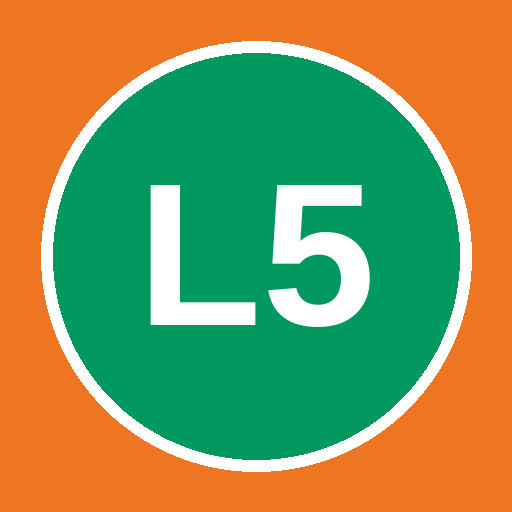
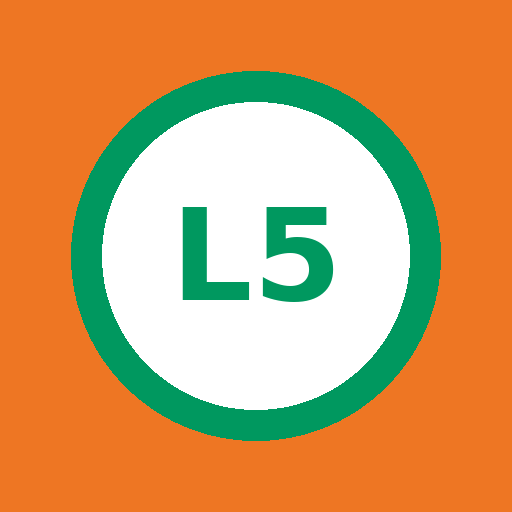
Add files via upload

diff --git a/index.html b/index.html
@@ -5,6 +5,11 @@
 <meta name="viewport" content="width=device-width, initial-scale=1, viewport-fit=cover">
 <meta name="theme-color" content="#00985F">
 <title>Fiscalización Limpieza Línea 5</title>
+<link rel="manifest" href="manifest.json">
+<link rel="icon" href="icon-192.png">
+<link rel="apple-touch-icon" href="icon-192.png">
+<meta name="mobile-web-app-capable" content="yes">
+<meta name="apple-mobile-web-app-capable" content="yes">
 <link rel="preconnect" href="https://fonts.googleapis.com">
 <link href="https://fonts.googleapis.com/css2?family=Atkinson+Hyperlegible:wght@400;700&display=swap" rel="stylesheet">
 <style>
@@ -86,6 +91,7 @@ nav .go{background:var(--verde);border-color:var(--verde);color:#fff}
 
 <script>
 /* ===================== CONFIGURACIÓN ===================== */
+const VERSION = "v3";
 const SCRIPT_URL = "https://script.google.com/macros/s/AKfycbyA7EcixS1LLWbKX3P76Mp1x_LBbPOSd1o47Lm6pk6017AtY7r_Sb_H1eqq3NLe558R/exec";   // URL /exec de la App web de Apps Script
 
 const SUPERVISORES = ["Darling Oliva Beltrán","Evelyn Torres Ortiz","Gabriela Escudero Lazcano","Gloria Beltrán Carter",
@@ -182,7 +188,7 @@ function bindItems(){
 
 function render(keepScroll){
   $("#prog").innerHTML=STEPS.map((_,i)=>`<i class="${i<cur?"done":i===cur?"now":""}"></i>`).join("");
-  $("#paso").textContent=`Paso ${cur+1} de ${STEPS.length}`;
+  $("#paso").textContent=`Paso ${cur+1} de ${STEPS.length} · ${VERSION}`;
   $("#back").style.visibility=cur?"visible":"hidden";
   const id=STEPS[cur];$("#next").textContent=id==="cierre"?"Enviar fiscalización":"Siguiente";
   const v=$("#view"),y=window.scrollY;let h="";
@@ -331,7 +337,7 @@ function pintarCola(){const n=cola().length,el=$("#pend");el.style.display=n?"bl
   el.innerHTML=n?`${n} fiscalización(es) guardada(s) sin enviar. <button id="reenv" style="padding:6px 10px;margin-left:6px">Enviar ahora</button>`:"";
   if(n)$("#reenv").onclick=reintentar;}
 function post(d){return new Promise((res,rej)=>{
-  if(!SCRIPT_URL||!navigator.onLine)return rej();
+  if(!SCRIPT_URL)return rej("url");if(!navigator.onLine)return rej("red");
   const f=document.createElement("form");f.method="POST";f.action=SCRIPT_URL;f.target="envio";f.style.display="none";
   const i=document.createElement("input");i.type="hidden";i.name="payload";i.value=JSON.stringify(d);f.appendChild(i);
   document.body.appendChild(f);f.submit();setTimeout(()=>{f.remove();res();},2500);});}
@@ -349,10 +355,10 @@ function armar(){const p=puntaje();
     obsGeneral:S.obsGeneral,firma:S.firma||"",fotos:S.fotos};}
 
 async function enviar(){const d=armar();$("#next").disabled=true;$("#next").textContent="Enviando…";
-  let ok=true;try{await post(d);}catch{ok=false;setCola([...cola(),d]);}
+  let ok=true,mot="red";try{await post(d);}catch(er){ok=false;mot=er;setCola([...cola(),d]);}
   document.querySelector("nav").style.display="none";
   $("#view").innerHTML=`<h2>${ok?"Fiscalización enviada":"Guardada en el equipo"}</h2>
-    <p class="sub">${ok?"Registro "+d.id+" enviado.":"Sin conexión o sin URL configurada. Usa “Enviar ahora” cuando tengas señal."}</p>
+    <p class="sub">${ok?"Registro "+esc(d.id)+" enviado.":mot==="url"?"Falta configurar la URL de envío en la app. Avisa al administrador.":"El teléfono está sin internet. Usa “Enviar ahora” cuando tengas señal."}</p>
     <div class="score">${d.total}%</div><p class="sub">${esc(d.estacion)} · ${esc(d.auxNombre)}</p>
     <button id="nueva" class="btn-verde" style="margin-top:16px">Nueva fiscalización</button>`;
   $("#nueva").onclick=()=>{sessionStorage.setItem("fl5_sup",S.supervisor);sessionStorage.setItem("fl5_tur",S.turno);location.reload();};
@@ -364,6 +370,12 @@ $("#back").onclick=()=>{if(cur){cur--;render();}};
 try{S.supervisor=sessionStorage.getItem("fl5_sup")||"";S.turno=sessionStorage.getItem("fl5_tur")||"";}catch{}
 window.addEventListener("online",()=>{if(cola().length)reintentar();});
 pintarCola();render();
+if("serviceWorker" in navigator){
+  let recargado=false;
+  navigator.serviceWorker.addEventListener("controllerchange",()=>{if(recargado)return;recargado=true;
+    if(STEPS[cur]==="ident"&&!S.estacion)location.reload();});
+  navigator.serviceWorker.register("sw.js").then(r=>r.update()).catch(()=>{});
+}
 </script>
 </body>
 </html>

diff --git a/sw.js b/sw.js
@@ -1,17 +1,27 @@
-// Service worker: permite instalar la app y abrirla sin señal.
-// Siempre intenta traer la versión nueva desde internet; si no hay señal, usa la guardada.
-const CACHE = "limpieza-l5-v4";
-const ARCHIVOS = ["./", "./index.html", "./manifest.json", "./icon-192.png", "./icon-512.png", "./apple-touch-icon.png"];
-self.addEventListener("install", e => { e.waitUntil(caches.open(CACHE).then(c => c.addAll(ARCHIVOS))); self.skipWaiting(); });
-self.addEventListener("activate", e => {
-  e.waitUntil(caches.keys().then(ks => Promise.all(ks.filter(k => k !== CACHE).map(k => caches.delete(k)))));
-  self.clients.claim();
+// Fiscalización Limpieza L5 — service worker
+// Red primero: con señal siempre carga la versión publicada; sin señal usa la copia guardada.
+const CACHE = "limpieza-l5-v3";
+const ARCHIVOS = ["./", "./index.html", "./manifest.json", "./icon-192.png", "./icon-512.png"];
+
+self.addEventListener("install", e => {
+  self.skipWaiting();
+  e.waitUntil(caches.open(CACHE).then(c => c.addAll(ARCHIVOS)));
 });
+
+self.addEventListener("activate", e => {
+  e.waitUntil(
+    caches.keys()
+      .then(ks => Promise.all(ks.filter(k => k !== CACHE).map(k => caches.delete(k))))
+      .then(() => self.clients.claim())
+  );
+});
+
 self.addEventListener("fetch", e => {
-  const u = new URL(e.request.url);
-  if (e.request.method !== "GET" || u.origin !== location.origin) return; // el envío a Google no pasa por aquí
+  const r = e.request;
+  if (r.method !== "GET" || new URL(r.url).origin !== location.origin) return;
   e.respondWith(
-    fetch(e.request).then(r => { const copia = r.clone(); caches.open(CACHE).then(c => c.put(e.request, copia)); return r; })
-      .catch(() => caches.match(e.request).then(r => r || caches.match("./index.html")))
+    fetch(r, {cache: "no-store"})
+      .then(res => { const cp = res.clone(); caches.open(CACHE).then(c => c.put(r, cp)); return res; })
+      .catch(() => caches.match(r, {ignoreSearch: true}).then(m => m || caches.match("./index.html")))
   );
 });
